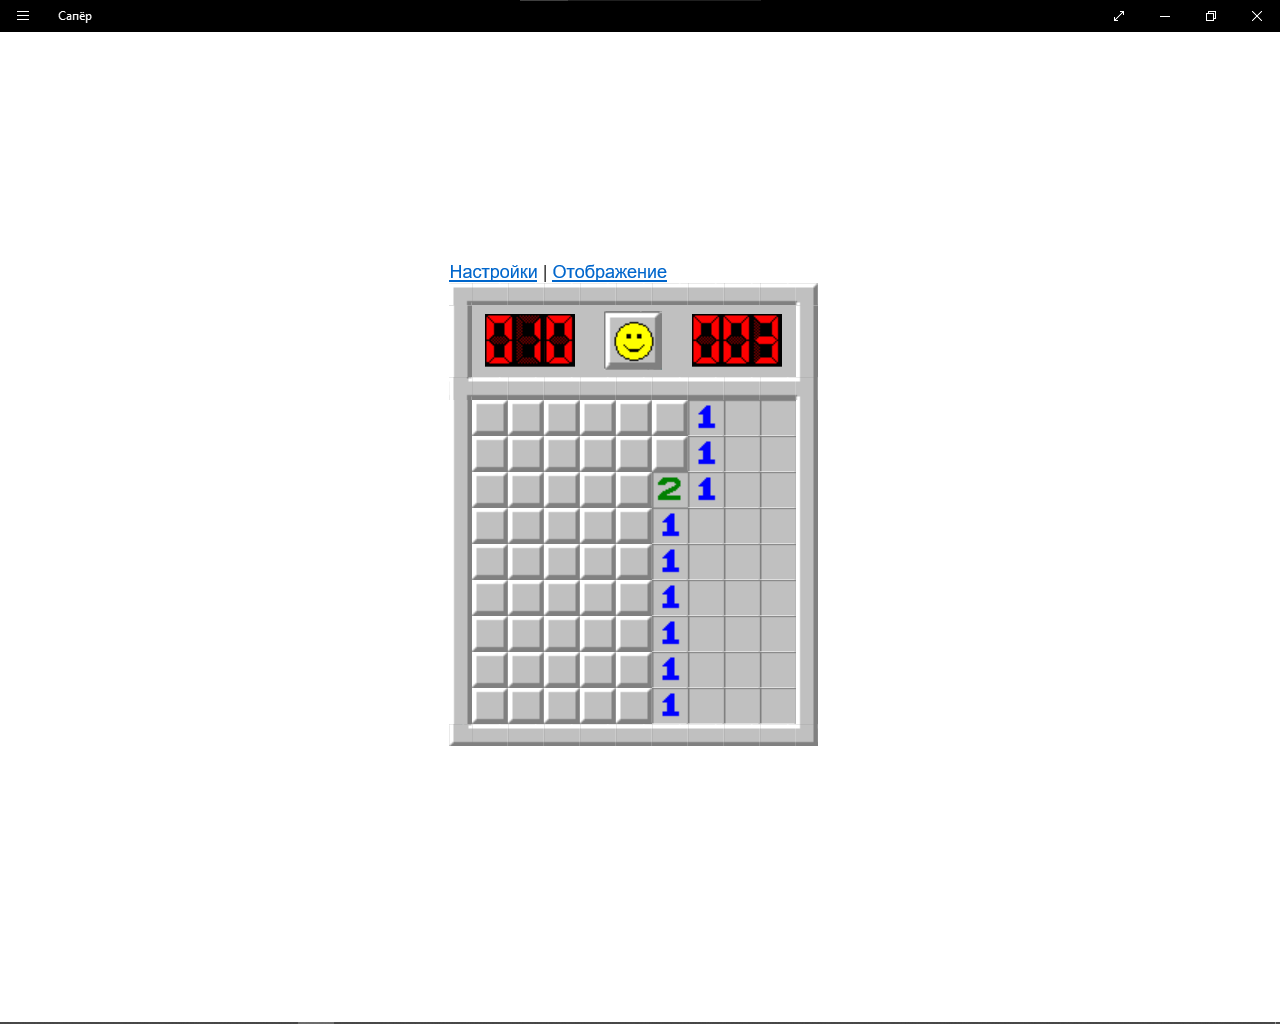
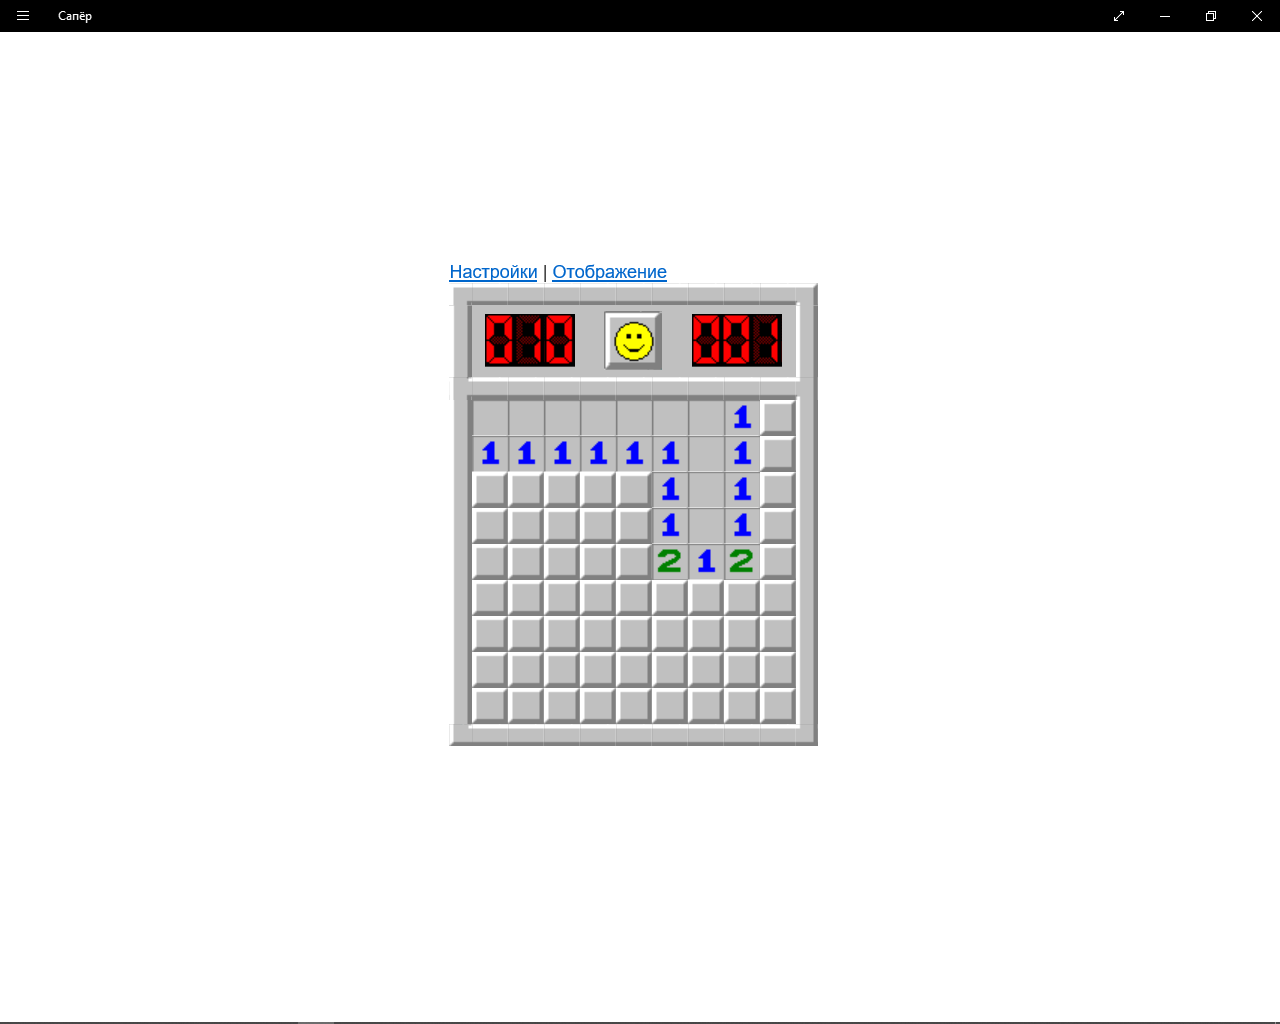
first success^W^

Changed region(s): [[0.3438, 0.3125, 0.625, 0.7188]]

diff --git a/main.py b/main.py
@@ -2,8 +2,8 @@ import pyautogui
 import PIL
 from PIL import Image
 
-# screen = pyautogui.screenshot("screenshot.png")
-screen = Image.open("screenshot.png")
+screen = pyautogui.screenshot("screenshot.png")
+# screen = Image.open("screenshot.png")
 pix = screen.load()
 begin_point_color = (255, 0, 0)
 field_begin_point_color = (128, 128, 128)
@@ -88,8 +88,9 @@ def find_on_field(screen, pix, object, move_to=False, click=False,
 # выделение нужного окна
 find_on_field(screen, pix, (255, 255, 255), True, True)
 # скрин в нужном окне
-# screen = pyautogui.screenshot("screenshot2.png")
-screen = Image.open("screenshot2.png")
+
+screen = pyautogui.screenshot("screenshot2.png")
+# screen = Image.open("screenshot2.png")
 
 pix = screen.load()
 
@@ -171,9 +172,8 @@ for i in field:
     print(i)
 print("field size is",field_width,"X", field_height)
 
-# screen = pyautogui.screenshot("screenshot2.png")
-screen = Image.open("screenshot3.png")
-pix = screen.load()
+
+
 
 def coordinates_changer(coords):
     # new_x = (coords[0]-zero_point[0])//sum(cell_x)
@@ -184,6 +184,7 @@ def coordinates_changer(coords):
 
 def find_number_in_cell(x,y):
     colors = set()
+    other_colors = set()
     coords_begin = coordinates_changer((x,y))
 
     for y in range(coords_begin[1],coords_begin[1]+sum(cell_y)):
@@ -192,18 +193,60 @@ def find_number_in_cell(x,y):
             color = pix[x,y]
             if color in allowed_colors:
                 colors.add(color)
-    if colors == set(cell_colors_x):
+            else:
+                other_colors.add(color)
+    if (255,255,255) in other_colors:
         return None
     for i in numbers_colors.keys():
         if colors == numbers_colors[i]:
             return i
-    return None
+    return 0
+def fields_arround(cords):
+    results={
+        None:[],
+        "flag":[]
+    }
+    for y in range(cords[1]-1,cords[1]+2):
+        for x in range(cords[0]-1,cords[0]+2):
+            if 0<=x<len(field[0]) and 0<=y<len(field):
+                if field[y][x] == None or field[y][x] == "flag":
+                    results[field[y][x]].append((x,y))
+    return results
 def algorhytm1():
+    numbers=dict()
     for y in range(field_height):
         for x in range(field_width):
             res = find_number_in_cell(x,y)
             field[y][x] = res
-algorhytm1()
-for i in field:
-    print(i)
+            if res:
+                if 1<= res <=8 or res == "flag":
+                    if res not in numbers.keys():
+                        numbers[res] = [(x,y)]
+                    else:
+                        numbers[res].append((x,y))
+    print("тут все заебись")
+    for i in field:
+        print(i)
+    print(numbers)
+    #TODO: отсортировать словарь
+    for i in numbers.keys():
+        for j in numbers[i]:
+            res = fields_arround(j)
+            if len(res[None])- len(res["flag"]) == i:
+                for k in res[None]:
+                    if k not in res["flag"]:
+                        pyautogui.rightClick(coordinates_changer((k[0],k[1])))
+                        res["flag"].append(k)
+                        field[k[1]][k[0]] = "flag"
+    print("и тут")
+pyautogui.click(zero_point[0]+2,zero_point[1]+2)
+screen = pyautogui.screenshot("screenshot3.png")
+# screen = Image.open("screenshot3.png")
+pix = screen.load()
+try:
+    algorhytm1()
+except Exception as e:
+    print(e)
+    s = input()
+print("заебумба ^_^")
 s = input()
